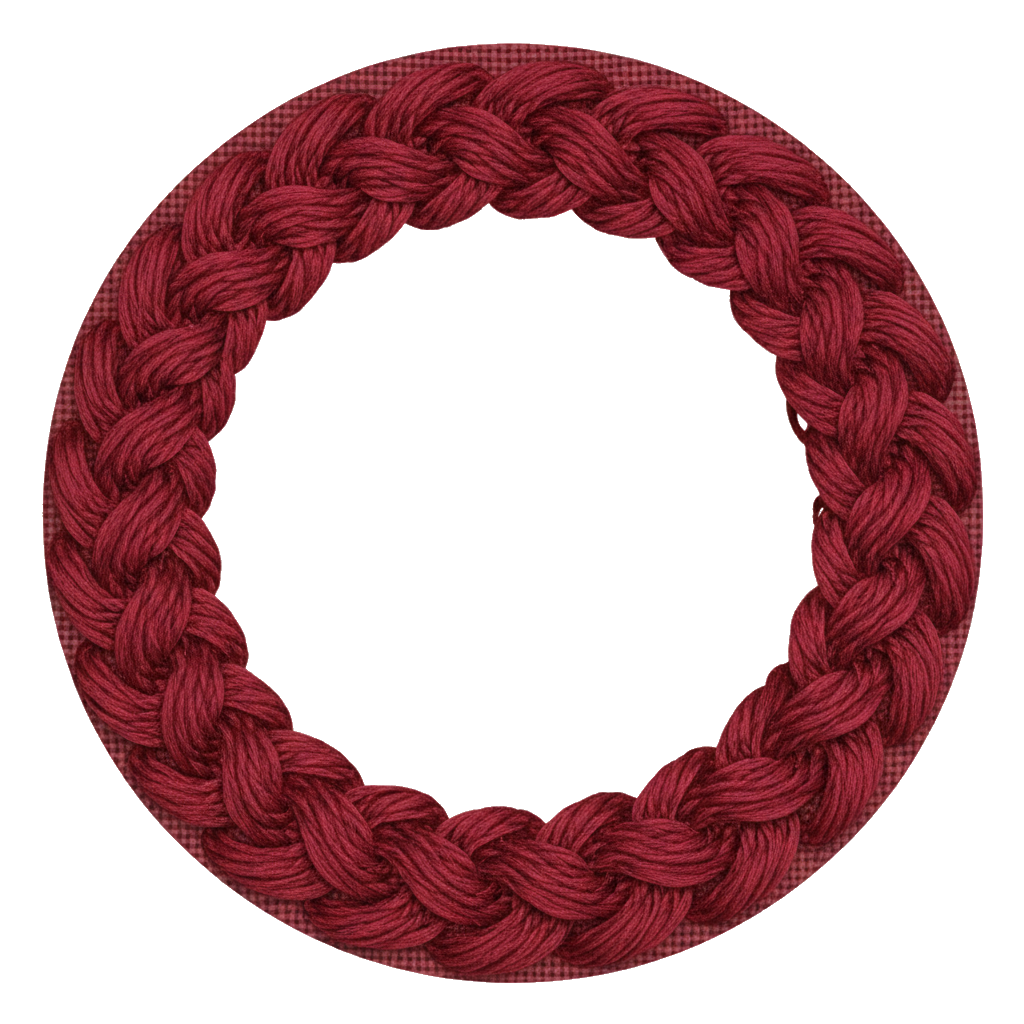
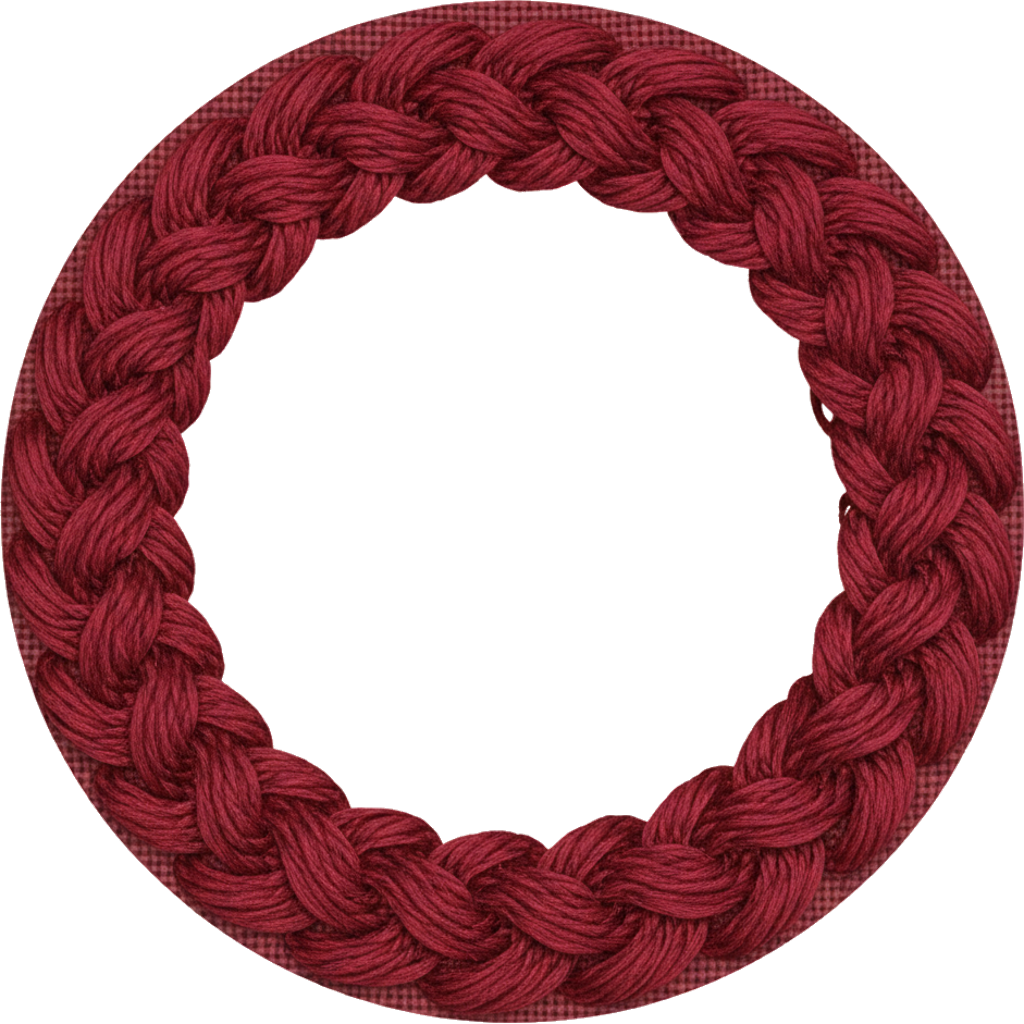
fix: フレームを canvas 一杯に拡大してクリーム色マットを廃止
ユーザー指摘の通り、外周にクリーム色マットを敷くやり方は黒 T シャツ等の
濃色商品に印刷した際、枠の周りに不細工なクリーム色の地色が出てしまう。

対策:
1. Pillow で img/frames/*.webp の opaque bbox を測定して crop、
   正方形化して 1024x1024 に拡大。これによりフレーム本体が canvas の
   端まで届くようになる。
2. cwebp -lossless で webp 再エンコード。
3. compositeFrameOnArt / renderFrameThumb の外周クリーム fillRect を削除。
   外周は alpha 0 のまま残し、Printful で印刷時に地色が透ける。
4. FRAME_INNER_RATIO を再測定して更新 (0.55-0.74)。

diff --git a/upload.html b/upload.html
@@ -38,9 +38,9 @@
     <meta http-equiv="Pragma" content="no-cache" />
     <meta http-equiv="Expires" content="0" />
     <!-- ビルド情報 (キャッシュ確認用): ConsoleでdeerBuildと打てば表示 -->
-    <meta name="deer-build" content="frame-inner-ratio-fit" />
+    <meta name="deer-build" content="frame-fill-canvas" />
     <script>
-      window.deerBuild = "frame-inner-ratio-fit";
+      window.deerBuild = "frame-fill-canvas";
       // 5 分に 1 回、本番 HTML の build marker と比較して古くなっていれば自動リロード。
       // 長時間タブを開きっぱなしのお客様が古い JS のまま操作してエラーを踏む事故を防ぐ。
       (function () {
@@ -5757,16 +5757,17 @@
       }
 
       // 各フレーム/ワッペンの内側透明領域の大きさ (canvas に対する割合)。
-      // 実画像を走査して測定済みの値を元に、少し余裕を持たせた値を設定。
+      // フレーム画像を opaque bbox で切り抜いて canvas 一杯に拡大済みなので、
+      // 残りの透明領域 (inner_w, inner_h) を実測した値を設定。
       // frame 型: 内側矩形、wappen 型: 内側円の直径。
       const FRAME_INNER_RATIO = {
-        "frame-gold": 0.44,
-        "frame-wood": 0.46,
-        "frame-antique": 0.48,
-        "wappen-laurel-navy": 0.52,
-        "wappen-laurel-gold": 0.56,
-        "wappen-rope-red": 0.5,
-        "wappen-zigzag-green": 0.58,
+        "frame-gold": 0.55,
+        "frame-wood": 0.6,
+        "frame-antique": 0.56,
+        "wappen-laurel-navy": 0.7,
+        "wappen-laurel-gold": 0.65,
+        "wappen-rope-red": 0.62,
+        "wappen-zigzag-green": 0.74,
       };
 
       async function compositeFrameOnArt(artUrl, frameOpt) {
@@ -5782,15 +5783,15 @@
           throw new Error("invalid art image dimensions");
         }
 
-        // 共通マット (frame 外周やワッペン外) には淡いクリーム色を敷く
-        ctx.fillStyle = "#f5f0e8";
-        ctx.fillRect(0, 0, SIZE, SIZE);
-
-        const innerRatio = FRAME_INNER_RATIO[frameOpt.id] || 0.5;
+        // 外周は透明のまま残す。黒 T シャツ等の濃色商品に印刷する際、
+        // クリーム色マットが地色と衝突して不細工になるのを防ぐ。
+        // フレーム画像自体を bbox crop+resize で canvas 一杯に拡大済みなので
+        // 画像の opaque 領域が canvas 端まで届く＝外周に何も描かなくて良い。
+        const innerRatio = FRAME_INNER_RATIO[frameOpt.id] || 0.55;
         const innerSize = SIZE * innerRatio;
 
         if (frameOpt.type === "wappen") {
-          // ワッペン中央の円内にアートを配置。外周はクリーム色マット。
+          // ワッペン中央の円内にアートを配置
           ctx.save();
           ctx.beginPath();
           ctx.arc(SIZE / 2, SIZE / 2, innerSize / 2, 0, Math.PI * 2);
